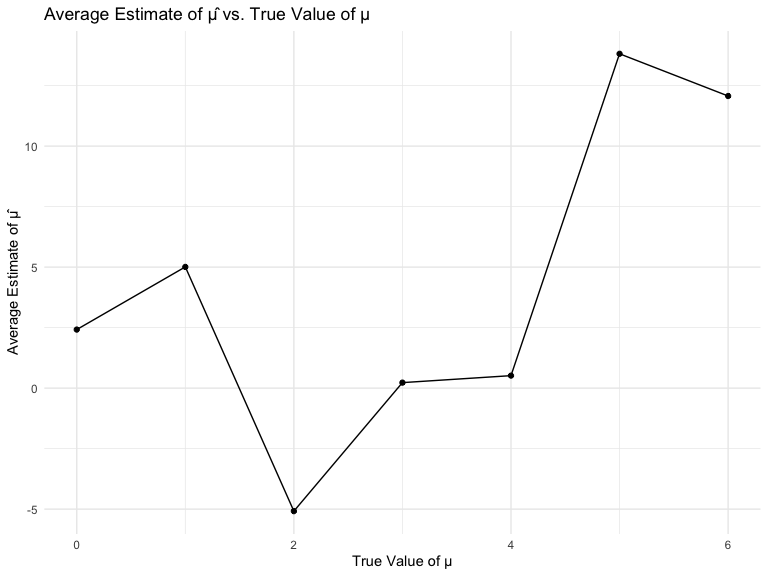
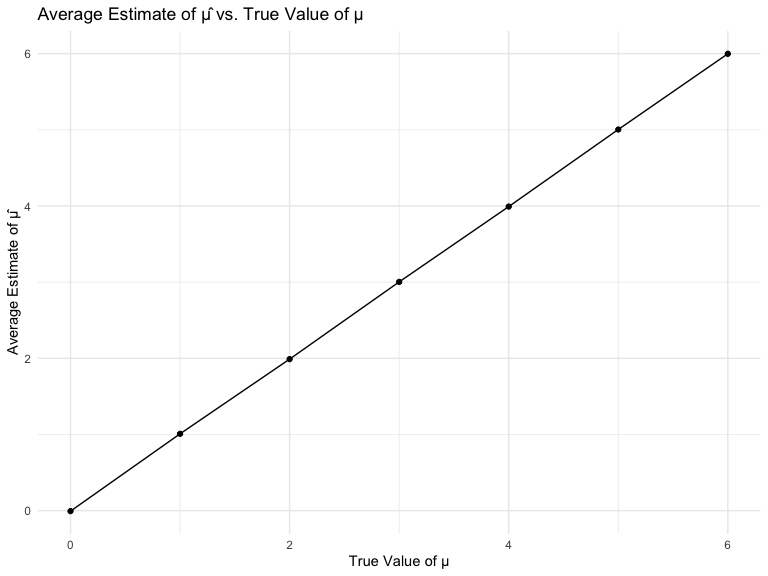
fixing P3 plots and descriptions

diff --git a/p8105_hw5_vsm2118.md b/p8105_hw5_vsm2118.md
@@ -111,174 +111,17 @@ CI, likely is the location of many homicides.
  # Step 1: Get all file names
 file_names <- list.files(path = "./data", pattern = ".csv", full.names = TRUE)
 
-# Step 2: Use purrr::map to read in data for each subject
+# Step 2: Use map to read in data for each subject
 data_list <- map(file_names, ~read_csv(.x) %>%
                    mutate(subject_id = gsub("[^0-9]", "", .x),
                           arm = ifelse(grepl("con", .x), "control", "experimental")))
-```
 
-    ## Rows: 1 Columns: 8
-    ## ── Column specification ────────────────────────────────────────────────────────
-    ## Delimiter: ","
-    ## dbl (8): week_1, week_2, week_3, week_4, week_5, week_6, week_7, week_8
-    ## 
-    ## ℹ Use `spec()` to retrieve the full column specification for this data.
-    ## ℹ Specify the column types or set `show_col_types = FALSE` to quiet this message.
-    ## Rows: 1 Columns: 8
-    ## ── Column specification ────────────────────────────────────────────────────────
-    ## Delimiter: ","
-    ## dbl (8): week_1, week_2, week_3, week_4, week_5, week_6, week_7, week_8
-    ## 
-    ## ℹ Use `spec()` to retrieve the full column specification for this data.
-    ## ℹ Specify the column types or set `show_col_types = FALSE` to quiet this message.
-    ## Rows: 1 Columns: 8
-    ## ── Column specification ────────────────────────────────────────────────────────
-    ## Delimiter: ","
-    ## dbl (8): week_1, week_2, week_3, week_4, week_5, week_6, week_7, week_8
-    ## 
-    ## ℹ Use `spec()` to retrieve the full column specification for this data.
-    ## ℹ Specify the column types or set `show_col_types = FALSE` to quiet this message.
-    ## Rows: 1 Columns: 8
-    ## ── Column specification ────────────────────────────────────────────────────────
-    ## Delimiter: ","
-    ## dbl (8): week_1, week_2, week_3, week_4, week_5, week_6, week_7, week_8
-    ## 
-    ## ℹ Use `spec()` to retrieve the full column specification for this data.
-    ## ℹ Specify the column types or set `show_col_types = FALSE` to quiet this message.
-    ## Rows: 1 Columns: 8
-    ## ── Column specification ────────────────────────────────────────────────────────
-    ## Delimiter: ","
-    ## dbl (8): week_1, week_2, week_3, week_4, week_5, week_6, week_7, week_8
-    ## 
-    ## ℹ Use `spec()` to retrieve the full column specification for this data.
-    ## ℹ Specify the column types or set `show_col_types = FALSE` to quiet this message.
-    ## Rows: 1 Columns: 8
-    ## ── Column specification ────────────────────────────────────────────────────────
-    ## Delimiter: ","
-    ## dbl (8): week_1, week_2, week_3, week_4, week_5, week_6, week_7, week_8
-    ## 
-    ## ℹ Use `spec()` to retrieve the full column specification for this data.
-    ## ℹ Specify the column types or set `show_col_types = FALSE` to quiet this message.
-    ## Rows: 1 Columns: 8
-    ## ── Column specification ────────────────────────────────────────────────────────
-    ## Delimiter: ","
-    ## dbl (8): week_1, week_2, week_3, week_4, week_5, week_6, week_7, week_8
-    ## 
-    ## ℹ Use `spec()` to retrieve the full column specification for this data.
-    ## ℹ Specify the column types or set `show_col_types = FALSE` to quiet this message.
-    ## Rows: 1 Columns: 8
-    ## ── Column specification ────────────────────────────────────────────────────────
-    ## Delimiter: ","
-    ## dbl (8): week_1, week_2, week_3, week_4, week_5, week_6, week_7, week_8
-    ## 
-    ## ℹ Use `spec()` to retrieve the full column specification for this data.
-    ## ℹ Specify the column types or set `show_col_types = FALSE` to quiet this message.
-    ## Rows: 1 Columns: 8
-    ## ── Column specification ────────────────────────────────────────────────────────
-    ## Delimiter: ","
-    ## dbl (8): week_1, week_2, week_3, week_4, week_5, week_6, week_7, week_8
-    ## 
-    ## ℹ Use `spec()` to retrieve the full column specification for this data.
-    ## ℹ Specify the column types or set `show_col_types = FALSE` to quiet this message.
-    ## Rows: 1 Columns: 8
-    ## ── Column specification ────────────────────────────────────────────────────────
-    ## Delimiter: ","
-    ## dbl (8): week_1, week_2, week_3, week_4, week_5, week_6, week_7, week_8
-    ## 
-    ## ℹ Use `spec()` to retrieve the full column specification for this data.
-    ## ℹ Specify the column types or set `show_col_types = FALSE` to quiet this message.
-    ## Rows: 1 Columns: 8
-    ## ── Column specification ────────────────────────────────────────────────────────
-    ## Delimiter: ","
-    ## dbl (8): week_1, week_2, week_3, week_4, week_5, week_6, week_7, week_8
-    ## 
-    ## ℹ Use `spec()` to retrieve the full column specification for this data.
-    ## ℹ Specify the column types or set `show_col_types = FALSE` to quiet this message.
-    ## Rows: 1 Columns: 8
-    ## ── Column specification ────────────────────────────────────────────────────────
-    ## Delimiter: ","
-    ## dbl (8): week_1, week_2, week_3, week_4, week_5, week_6, week_7, week_8
-    ## 
-    ## ℹ Use `spec()` to retrieve the full column specification for this data.
-    ## ℹ Specify the column types or set `show_col_types = FALSE` to quiet this message.
-    ## Rows: 1 Columns: 8
-    ## ── Column specification ────────────────────────────────────────────────────────
-    ## Delimiter: ","
-    ## dbl (8): week_1, week_2, week_3, week_4, week_5, week_6, week_7, week_8
-    ## 
-    ## ℹ Use `spec()` to retrieve the full column specification for this data.
-    ## ℹ Specify the column types or set `show_col_types = FALSE` to quiet this message.
-    ## Rows: 1 Columns: 8
-    ## ── Column specification ────────────────────────────────────────────────────────
-    ## Delimiter: ","
-    ## dbl (8): week_1, week_2, week_3, week_4, week_5, week_6, week_7, week_8
-    ## 
-    ## ℹ Use `spec()` to retrieve the full column specification for this data.
-    ## ℹ Specify the column types or set `show_col_types = FALSE` to quiet this message.
-    ## Rows: 1 Columns: 8
-    ## ── Column specification ────────────────────────────────────────────────────────
-    ## Delimiter: ","
-    ## dbl (8): week_1, week_2, week_3, week_4, week_5, week_6, week_7, week_8
-    ## 
-    ## ℹ Use `spec()` to retrieve the full column specification for this data.
-    ## ℹ Specify the column types or set `show_col_types = FALSE` to quiet this message.
-    ## Rows: 1 Columns: 8
-    ## ── Column specification ────────────────────────────────────────────────────────
-    ## Delimiter: ","
-    ## dbl (8): week_1, week_2, week_3, week_4, week_5, week_6, week_7, week_8
-    ## 
-    ## ℹ Use `spec()` to retrieve the full column specification for this data.
-    ## ℹ Specify the column types or set `show_col_types = FALSE` to quiet this message.
-    ## Rows: 1 Columns: 8
-    ## ── Column specification ────────────────────────────────────────────────────────
-    ## Delimiter: ","
-    ## dbl (8): week_1, week_2, week_3, week_4, week_5, week_6, week_7, week_8
-    ## 
-    ## ℹ Use `spec()` to retrieve the full column specification for this data.
-    ## ℹ Specify the column types or set `show_col_types = FALSE` to quiet this message.
-    ## Rows: 1 Columns: 8
-    ## ── Column specification ────────────────────────────────────────────────────────
-    ## Delimiter: ","
-    ## dbl (8): week_1, week_2, week_3, week_4, week_5, week_6, week_7, week_8
-    ## 
-    ## ℹ Use `spec()` to retrieve the full column specification for this data.
-    ## ℹ Specify the column types or set `show_col_types = FALSE` to quiet this message.
-    ## Rows: 1 Columns: 8
-    ## ── Column specification ────────────────────────────────────────────────────────
-    ## Delimiter: ","
-    ## dbl (8): week_1, week_2, week_3, week_4, week_5, week_6, week_7, week_8
-    ## 
-    ## ℹ Use `spec()` to retrieve the full column specification for this data.
-    ## ℹ Specify the column types or set `show_col_types = FALSE` to quiet this message.
-    ## Rows: 1 Columns: 8
-    ## ── Column specification ────────────────────────────────────────────────────────
-    ## Delimiter: ","
-    ## dbl (8): week_1, week_2, week_3, week_4, week_5, week_6, week_7, week_8
-    ## 
-    ## ℹ Use `spec()` to retrieve the full column specification for this data.
-    ## ℹ Specify the column types or set `show_col_types = FALSE` to quiet this message.
-    ## Rows: 52179 Columns: 12
-    ## ── Column specification ────────────────────────────────────────────────────────
-    ## Delimiter: ","
-    ## chr (9): uid, victim_last, victim_first, victim_race, victim_age, victim_sex...
-    ## dbl (3): reported_date, lat, lon
-    ## 
-    ## ℹ Use `spec()` to retrieve the full column specification for this data.
-    ## ℹ Specify the column types or set `show_col_types = FALSE` to quiet this message.
-
-``` r
 # Step 3: Tidy the data
 tidy_data <- bind_rows(data_list) %>% 
   filter(!is.na(subject_id) & subject_id != "") %>%
   pivot_longer(cols = starts_with("week_"), names_to = "week", values_to = "observation") %>%
   mutate(week = as.numeric(str_remove(week, "week_")))
 
-print(unique(tidy_data$subject_id))
-```
-
-    ##  [1] "01" "02" "03" "04" "05" "06" "07" "08" "09" "10"
-
-``` r
 # Step 4: Create a spaghetti plot
 study_plot <- ggplot(tidy_data, aes(x = week, y = observation, color = factor(subject_id), group = interaction(subject_id, arm))) +
   geom_line() +
@@ -309,36 +152,30 @@ the experimental arm, a trend not observed in the control arm.
 ## Problem 3
 
 ``` r
-# Set seed for reproducibility
-set.seed(12345)
-
 # Function to simulate one-sample t-test and return estimate and p-value
-sim_t_test <- function(true_mean = 0, true_sd = 5, n_obs = 30) {
-  x <- rnorm(n = n_obs, mean = true_mean, sd = true_sd)
-  t_test_result <- broom::tidy(t.test(x))
+sim_t_test <- function(true_mean = c(0, 1, 2, 3, 4, 5, 6), true_sd = 5, n_obs = 30, num_datasets = 5000) {
+  results <- map_df(true_mean, function(mu) {
+    dataframes <- replicate(num_datasets, rnorm(n_obs, mean = mu, sd = true_sd), simplify = FALSE)
   
-  tibble(
-    true_mean = true_mean,
-    estimate_mean = t_test_result$estimate,
-    p_value = t_test_result$p.value
-  )
+    map_df(dataframes, function(dataset) {
+      t_test_result <- t.test(dataset, mu = mu)
+      tidy_result <- broom::tidy(t_test_result)
+      data.frame(true_mean = mu, estimate_mean = tidy_result$estimate, p_value = tidy_result$p.value)
+    })
+  })
+  return(results)
 }
 
-# Use map to simulate the t-test for different true values of μ
-sim_results <- expand_grid(
-  true_mean = c(0, 1, 2, 3, 4, 5, 6),
-  iter = 1:5000
-) %>% 
-  mutate(t_test_results = map2(true_mean, iter, sim_t_test)) 
+# Example usage
+sim_results <- sim_t_test()
 ```
 
 Plot 1: Power vs. True Value of μ
 
 ``` r
 power_plot_data <- sim_results %>%
-  mutate(power = map_dbl(t_test_results, ~ mean(.x$p_value < 0.05))) %>%
   group_by(true_mean) %>%
-  summarize(power = mean(power))
+  summarize(power = mean(p_value < 0.05))
 
 ggplot(power_plot_data, aes(x = true_mean, y = power)) +
   geom_line() +
@@ -350,58 +187,48 @@ ggplot(power_plot_data, aes(x = true_mean, y = power)) +
 
 <img src="p8105_hw5_vsm2118_files/figure-gfm/unnamed-chunk-8-1.png" width="90%" />
 
-There appears to be a complex, non-linear relationship between effect
-size (true value of μ) and power. The initial increase from 0 to 1 and
-subsequent fluctuations might suggest varying sensitivity of the test to
-different effect sizes. Furthermore, the sharp changes at specific
-values of μ could be indicative of thresholds or critical points where
-the test’s ability to detect the effect size changes.
+There appears to be a non-linear relationship between effect size (true
+value of μ) and power. The fluctuations shown by the plot suggest
+varying sensitivity of the test to different effect sizes. Furthermore,
+the sharp changes at specific values of μ could be indicative of
+thresholds or critical points where the test’s ability to detect the
+effect size changes. Whenever we execute the simulation with the
+generated data, the resulting graph exhibits variation, displaying a
+non-linear relationship on each iteration.
 
 Plot 2: Average Estimate of μ̂ vs. True Value of μ
 
 ``` r
 estimate_plot_data <- sim_results %>%
-  mutate(avg_estimate = map_dbl(t_test_results, ~ mean(.x$estimate_mean))) %>%
   group_by(true_mean) %>%
-  summarize(avg_estimate = mean(avg_estimate))
+  summarize(avg_estimate = mean(estimate_mean))
 
-estimate_plot_data
-```
-
-    ## # A tibble: 7 × 2
-    ##   true_mean avg_estimate
-    ##       <dbl>        <dbl>
-    ## 1         0        2.42 
-    ## 2         1        5.01 
-    ## 3         2       -5.08 
-    ## 4         3        0.228
-    ## 5         4        0.517
-    ## 6         5       13.8  
-    ## 7         6       12.1
-
-``` r
-ggplot(estimate_plot_data, aes(x = true_mean, y = avg_estimate)) +
+estimate_plot =
+  estimate_plot_data %>% 
+ggplot(aes(x = true_mean, y = avg_estimate)) +
   geom_line() +
   geom_point() + 
   labs(title = "Average Estimate of μ̂ vs. True Value of μ",
        x = "True Value of μ",
        y = "Average Estimate of μ̂")
+
+print(estimate_plot)
 ```
 
 <img src="p8105_hw5_vsm2118_files/figure-gfm/unnamed-chunk-9-1.png" width="90%" />
+
+A strong positive linear relationship exists between the actual mean
+values and the mean estimates derived from the simulation. This
+correlation is logical, as increasing the sample size leads to average
+estimated means closely resembling the true mean value.
 
 Plot 3: Average Estimate of μ̂ in Rejected Samples vs. True Value of μ
 
 ``` r
 rejected_estimate_plot_data <- sim_results %>%
-  mutate(
-    avg_estimate_rejected = map_dbl(
-      t_test_results,
-      ~ ifelse(mean(.x$p_value < 0.05) > 0, mean(.x$estimate_mean), NA)
-    )
-  ) %>%
+  filter(p_value <0.05) %>% 
   group_by(true_mean) %>%
-  summarize(avg_estimate_rejected = mean(avg_estimate_rejected, na.rm = TRUE))
+  summarize(avg_estimate_rejected = mean(estimate_mean))
 
 combined_data <- left_join(estimate_plot_data, rejected_estimate_plot_data, by = "true_mean")
 
@@ -421,17 +248,9 @@ ggplot(combined_data, aes(x = true_mean)) +
 
 <img src="p8105_hw5_vsm2118_files/figure-gfm/unnamed-chunk-10-1.png" width="90%" />
 
-The sample average of μ̂ across tests for which the null hypothesis is
-rejected does not appear to be approximately equal to the true value of
-μ. The average estimate of μ̂ for all samples tends to hover around a
-relatively smaller range near zero, indicating unbiased behavior of the
-estimator. However, the wider range observed in rejected samples
-suggests increased variability, potentially influenced by factors such
-as data variability and the sensitivity of the test. Notably, the
-crossing points between the lines representing all samples and rejected
-samples indicate that, for specific true values of μ, the estimation
-process remains unbiased even when the null hypothesis is rejected. The
-variability observed in rejected samples may be attributed to factors
-associated with the rejection of the null hypothesis, emphasizing this
-nuanced relationship between effect size, estimation, and hypothesis
-testing.
+The mean value of μ̂ across tests where the null hypothesis is rejected
+is approximatley equal to the true value of μ, with the average
+estimates of μ̂ more accurately approaching the true μ values as more
+samples are generated/run. The slight variations observed in the graph
+arise from the inherent random sampling variability present in the
+results.
